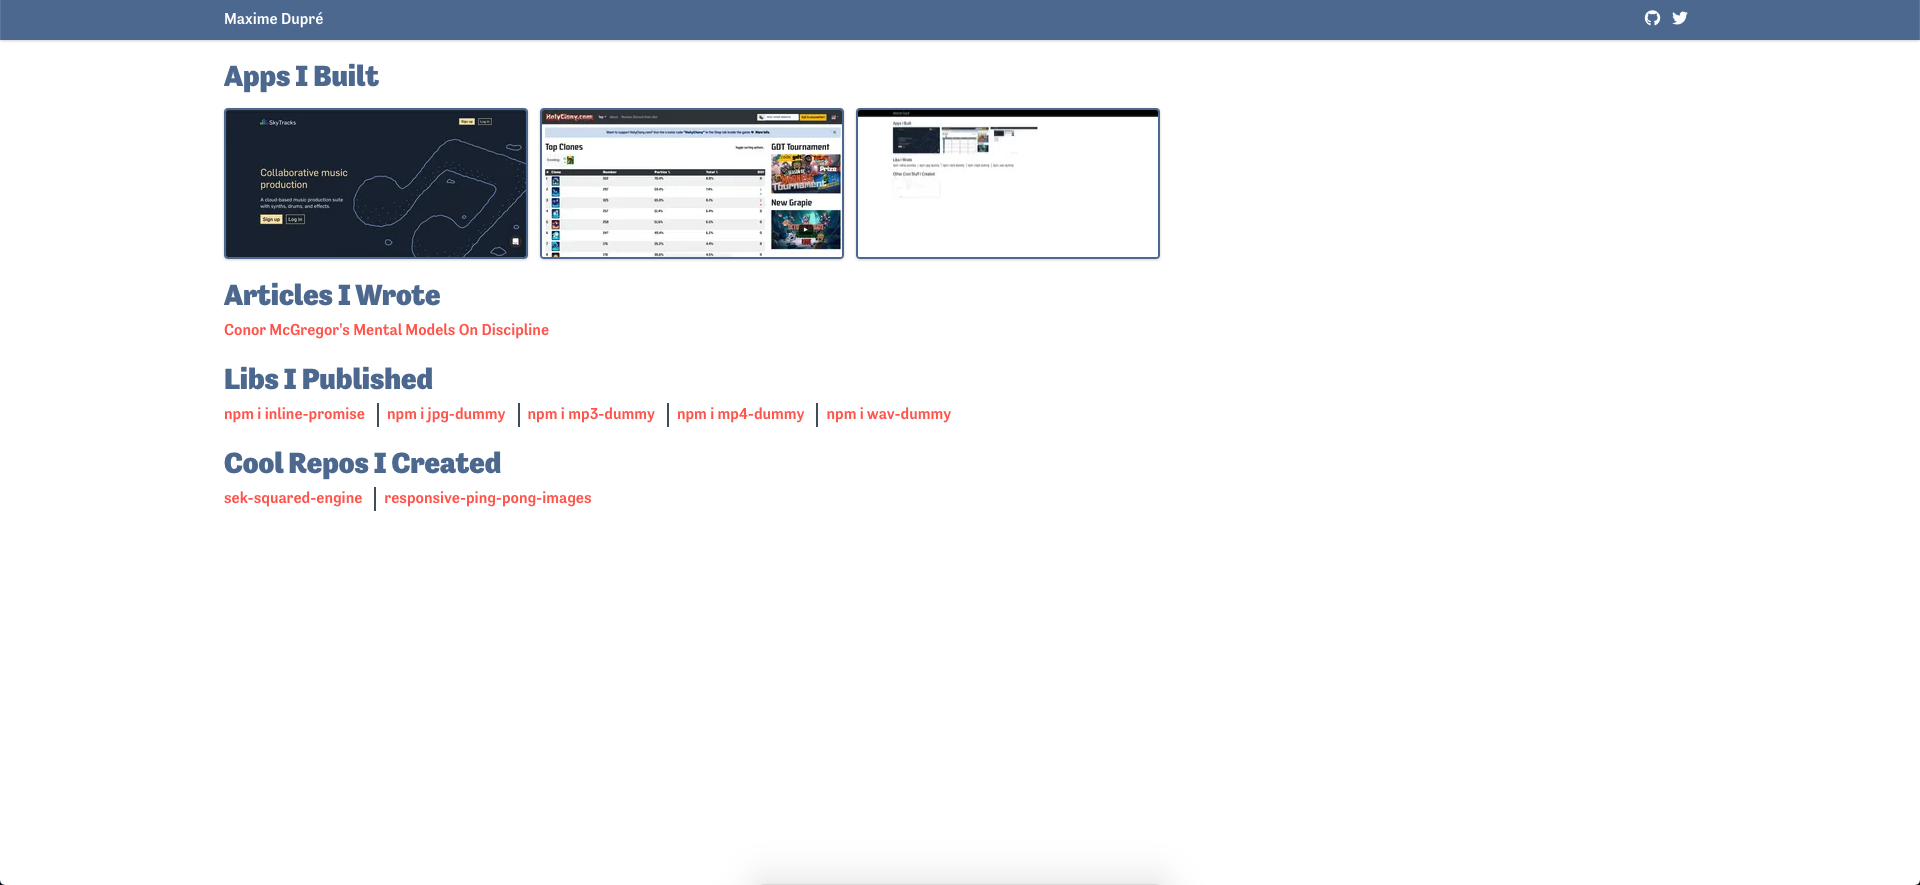
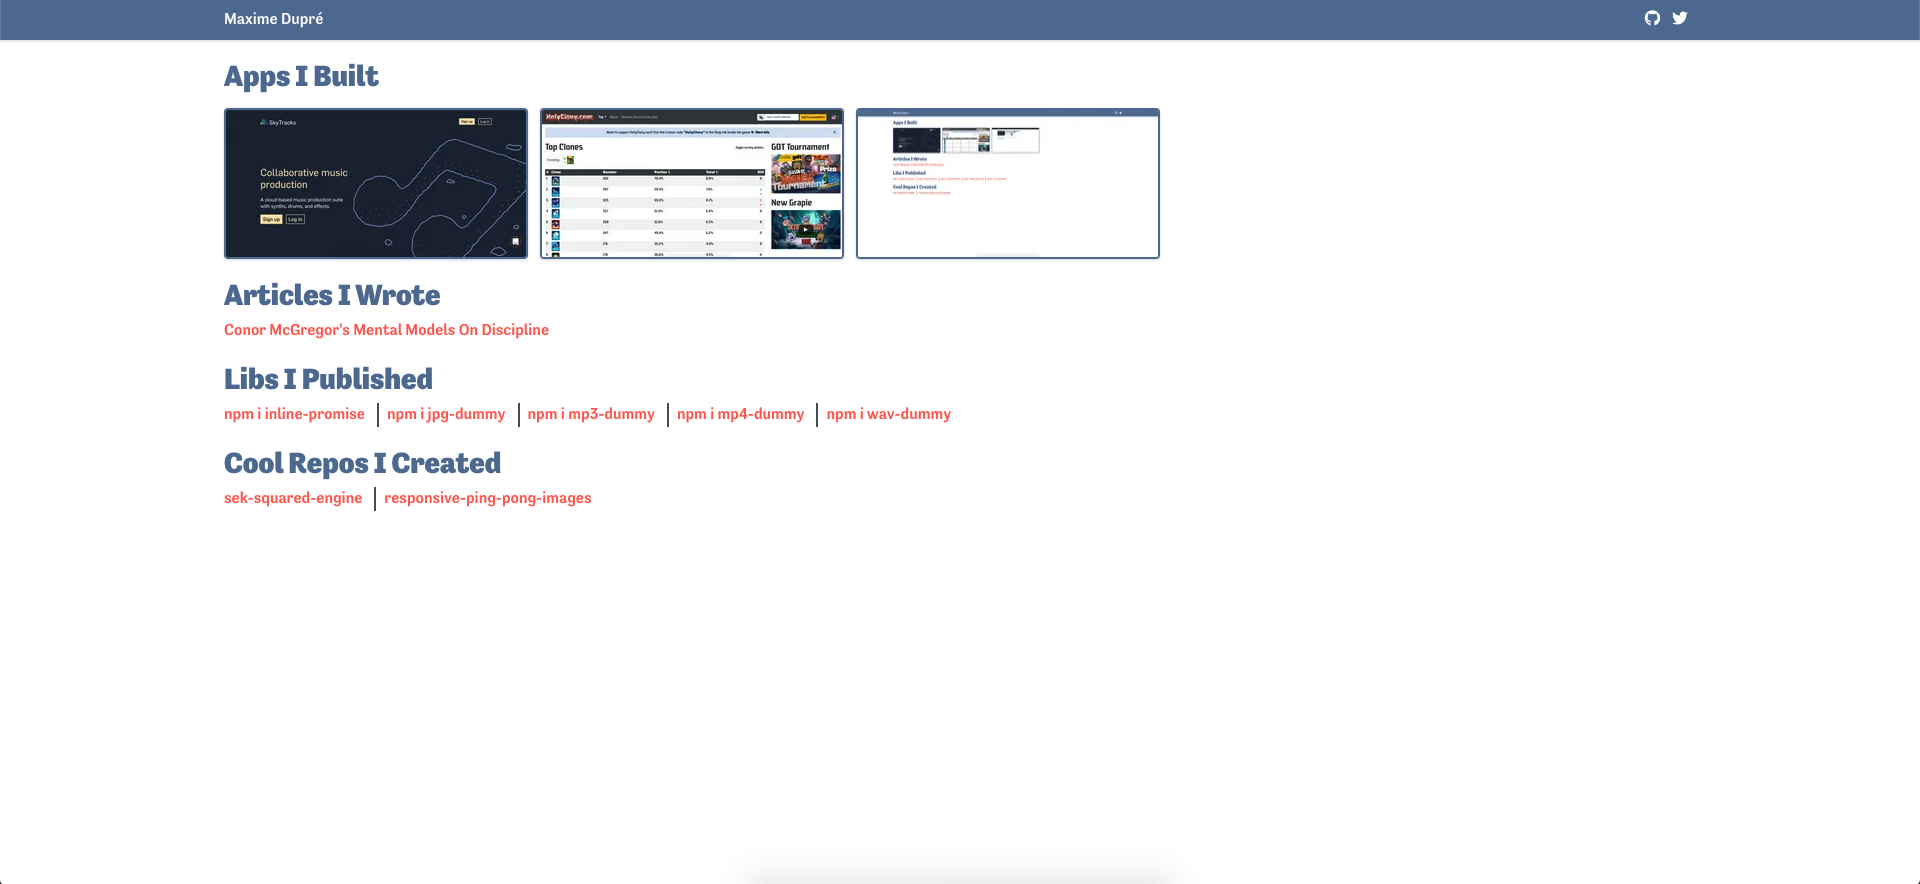
made site more responsive

diff --git a/src/index.html b/src/index.html
@@ -7,7 +7,7 @@ title: Maxime Dupré
     <h1 class="mb-1">Apps I Built</h1>
     <ul class="mt-1 sm:flex sm:flex-row sm:space-x-3">
         <li class="mt-2">
-            <a class="group relative block" href="https://skytracks.io">
+            <a class="group relative inline-block" href="https://skytracks.io">
                 <p
                     class="transition duration-500 opacity-0 group-hover:opacity-100 absolute h-full w-full bg-1 bg-opacity-90 text-white flex items-center justify-center rounded"
                 >
@@ -21,7 +21,7 @@ title: Maxime Dupré
             </a>
         </li>
         <li class="mt-2">
-            <a class="group relative block" href="https://holyclony.com">
+            <a class="group relative inline-block" href="https://holyclony.com">
                 <p
                     class="transition duration-500 opacity-0 group-hover:opacity-100 absolute h-full w-full bg-1 bg-opacity-90 text-white flex items-center justify-center rounded"
                 >
@@ -36,7 +36,7 @@ title: Maxime Dupré
         </li>
         <li class="mt-2">
             <a
-                class="group relative block h-full"
+                class="group relative inline-block"
                 href="https://maximedupre.com"
             >
                 <p
@@ -68,29 +68,29 @@ title: Maxime Dupré
 <div class="mt-5">
     <h1 class="mb-1">Libs I Published</h1>
     <ul
-        class="mt-1 list-disc list-inside sm:list-none sm:flex sm:flex-row sm:space-x-3 sm:divide-x-2 sm:divide-1"
+        class="mt-1 list-disc list-inside lg:list-none lg:flex lg:flex-row lg:space-x-3 lg:divide-x-2 lg:divide-1"
     >
         <li>
             <a href="https://github.com/maximedupre/inline-promise"
                 >npm i inline-promise</a
             >
         </li>
-        <li class="sm:pl-2">
+        <li class="lg:pl-2">
             <a href="https://github.com/maximedupre/jpg-dummy"
                 >npm i jpg-dummy</a
             >
         </li>
-        <li class="sm:pl-2">
+        <li class="lg:pl-2">
             <a href="https://github.com/maximedupre/mp3-dummy"
                 >npm i mp3-dummy</a
             >
         </li>
-        <li class="sm:pl-2">
+        <li class="lg:pl-2">
             <a href="https://github.com/maximedupre/mp4-dummy"
                 >npm i mp4-dummy</a
             >
         </li>
-        <li class="sm:pl-2">
+        <li class="lg:pl-2">
             <a href="https://github.com/maximedupre/wav-dummy"
                 >npm i wav-dummy</a
             >
